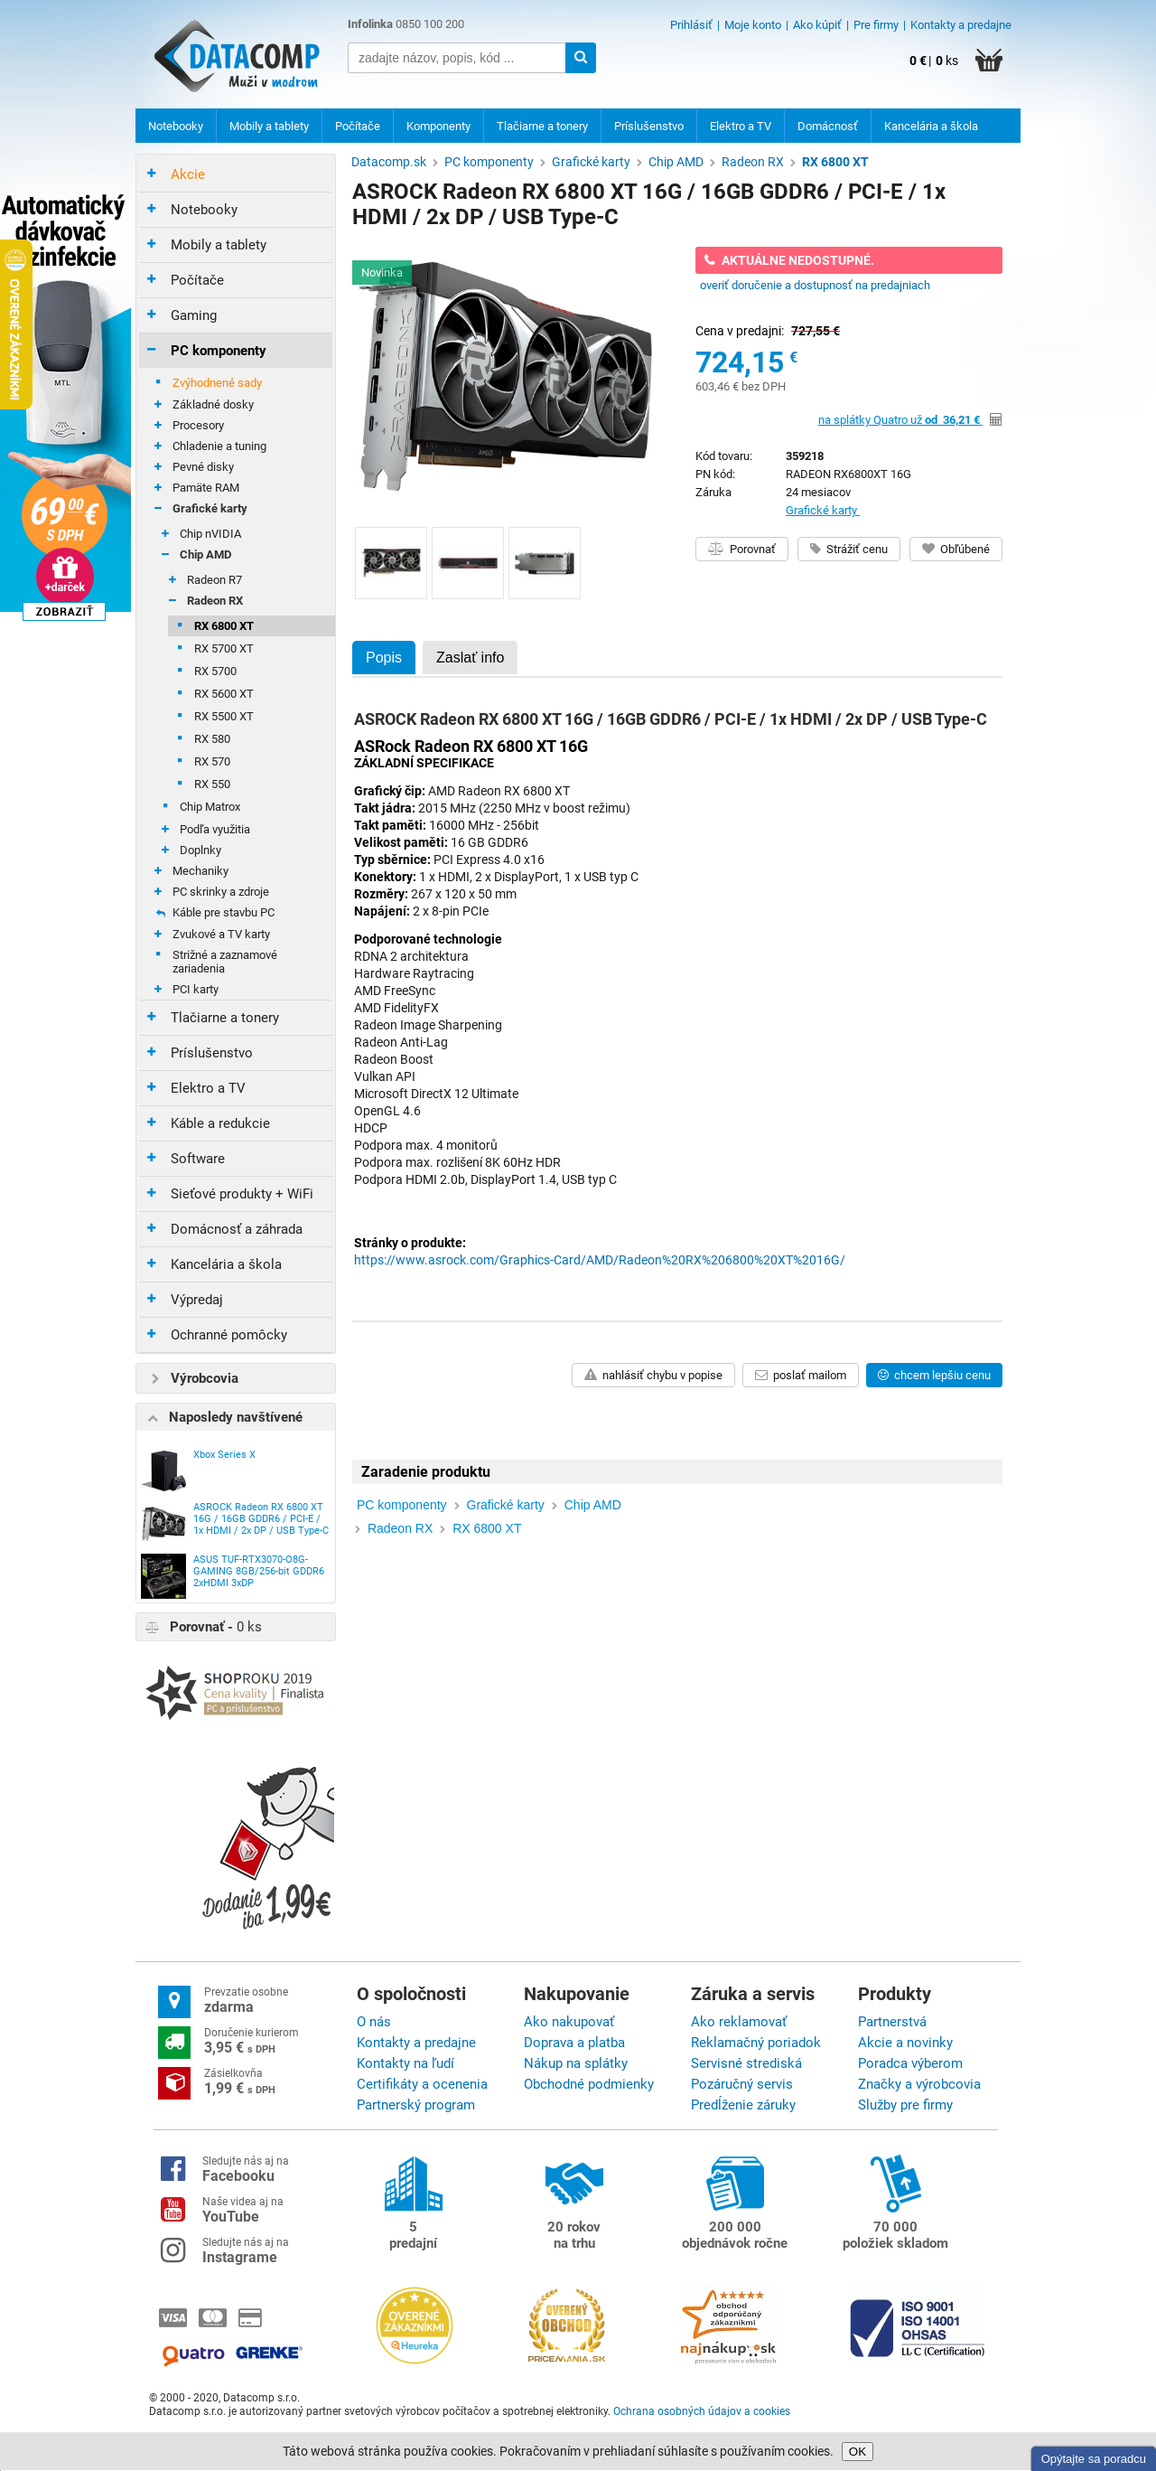
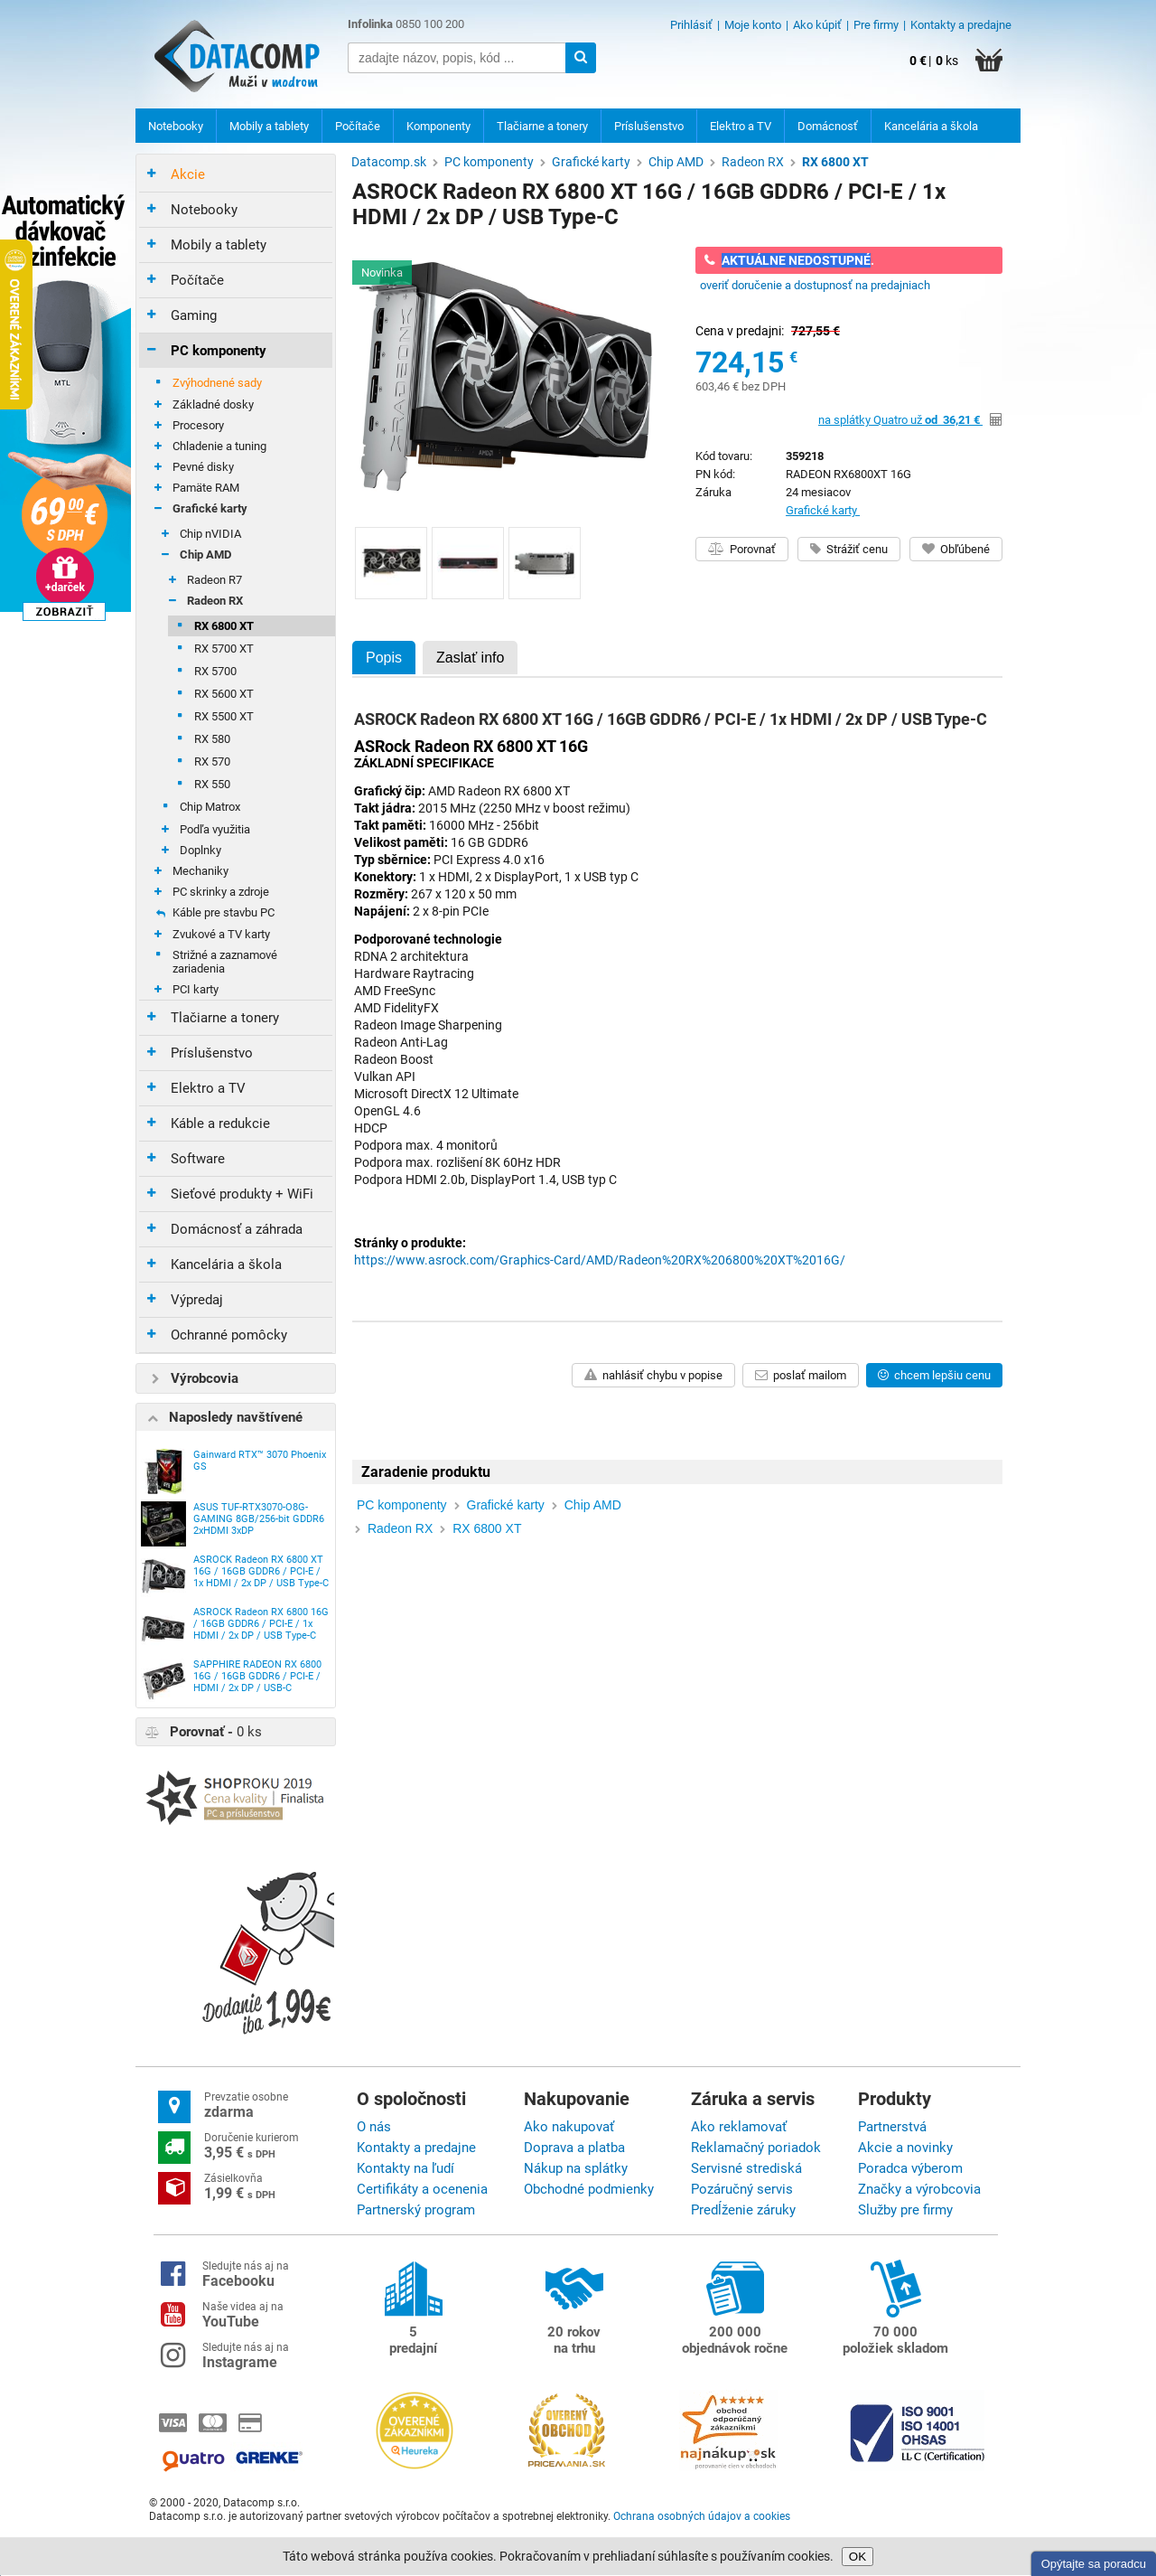
feature: Exclude "on the way" as "available"

diff --git a/index.js b/index.js
@@ -31,9 +31,16 @@ async function checkAvailability(browser, name, url) {
   await page.setViewport({ width: 1280, height: 800 });
   await page.goto(url, { timeout: 3000000 });
 
+  const unavailable = await page.evaluate(() =>
+    window.find('AKTUÁLNE NEDOSTUPNÉ')
+  );
+  const onTheWay = await page.evaluate(() =>
+    window.find('OČAKÁVANÁ DOSTUPNOSŤ')
+  );
+
   await page.screenshot({ path: `screenshots/${name}.png`, fullPage: true });
 
-  return !page.evaluate(() => window.find('AKTUÁLNE NEDOSTUPNÉ.'));
+  return !(unavailable || onTheWay);
 }
 
 async function notify(mailList, itemName, url) {
